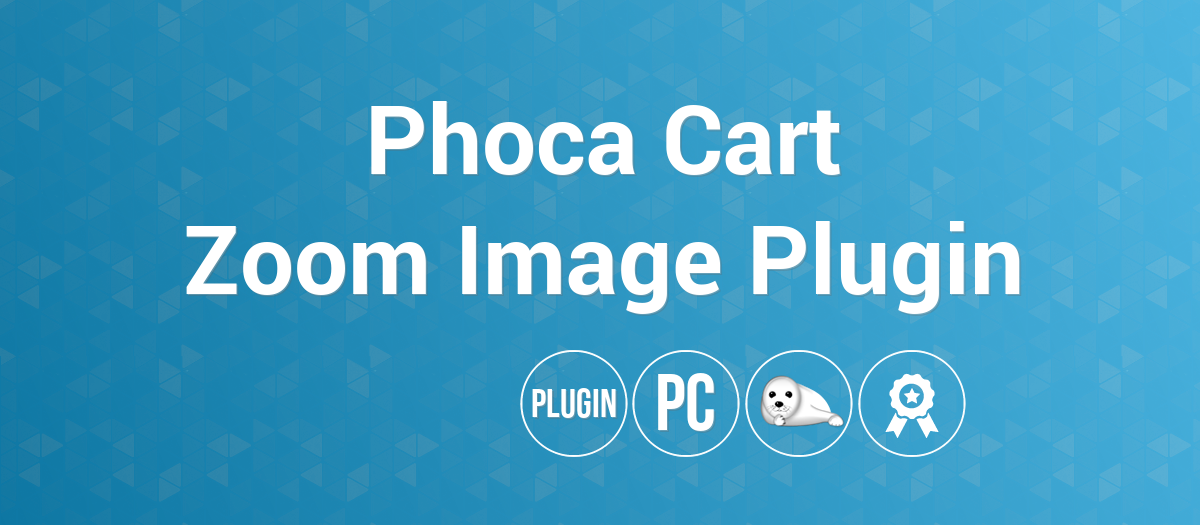
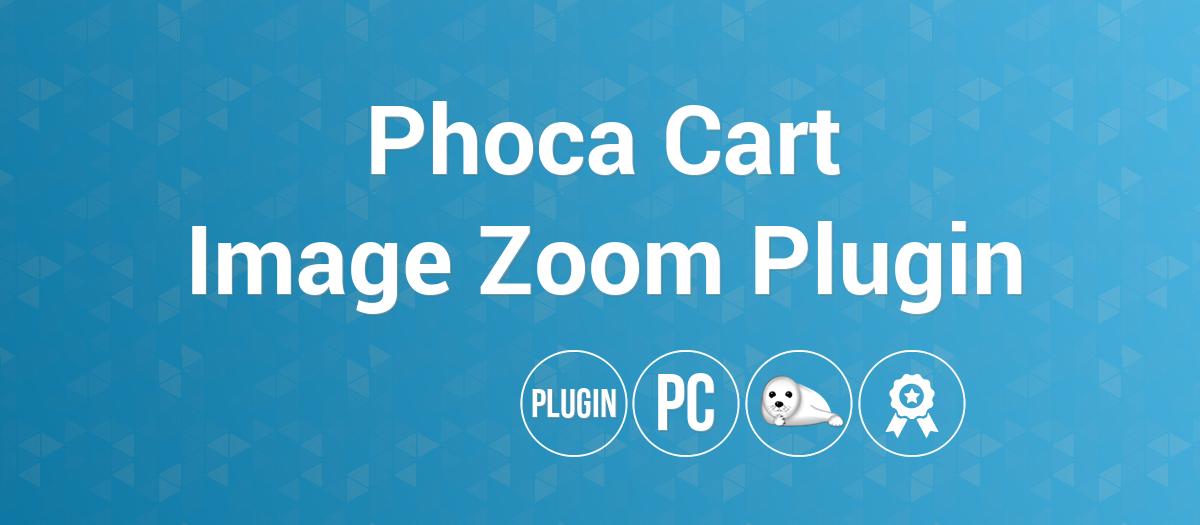
3.4.0
3.4.0

Changed region(s): [[0.1542, 0.4267, 0.8633, 0.6095]]

diff --git a/media/css/style.css b/media/css/style.css
@@ -57,6 +57,14 @@
 	border: 2px solid #dc3545 !important;
 }
 
+.drift-zoom-pane {
+
+	/* zoom area can be changed here
+	border: 2px solid #ededed;
+	max-height: 300px;
+	*/
+}
+
 
 
 

diff --git a/README.MD b/README.MD
@@ -2,19 +2,19 @@
 
 
 
-![Phoca Cart Zoom Image Plugin](https://github.com/PhocaCz/PhocaCartImageZoomPlugin/blob/master/image_zoom.png)
+![Phoca Cart Image Zoom Plugin](https://github.com/PhocaCz/PhocaCartImageZoomPlugin/blob/master/image_zoom.png)
 
-# Phoca Cart Zoom Image Plugin
+# Phoca Cart Image Zoom Plugin
 
 
 
-Phoca Cart View - Zoom Image Plugin - this plugin adds the 'zoom on hover/click' functionality to product image in Phoca Cart product view.
+Phoca Cart View - Image Zoom Plugin - this plugin adds the 'zoom on hover/click' functionality to product image in Phoca Cart product view.
 
 
 
 ## Project page
 
-[Phoca Cart Zoom Image Plugin](https://www.phoca.cz/phocacart-extensions/2-plugins/46-view-zoom-image-plugin)
+[Phoca Cart Image Zoom Plugin](https://www.phoca.cz/phocacart-extensions/2-plugins/46-view-zoom-image-plugin)
 
 [Phoca Cart Info Page](https://www.phoca.cz/project/phocacart-joomla-ecommerce)
 
